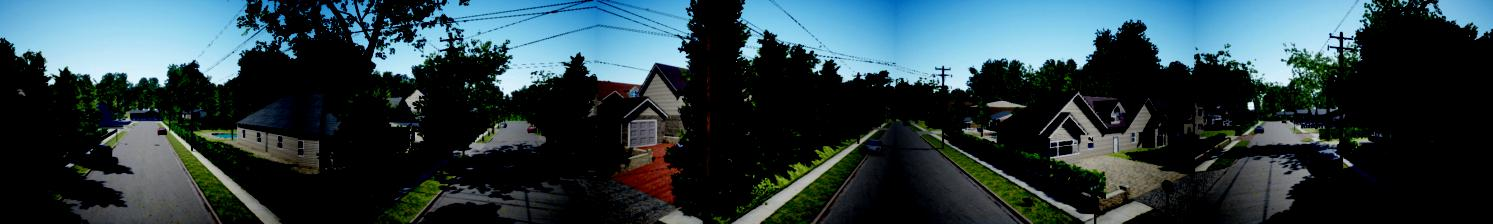
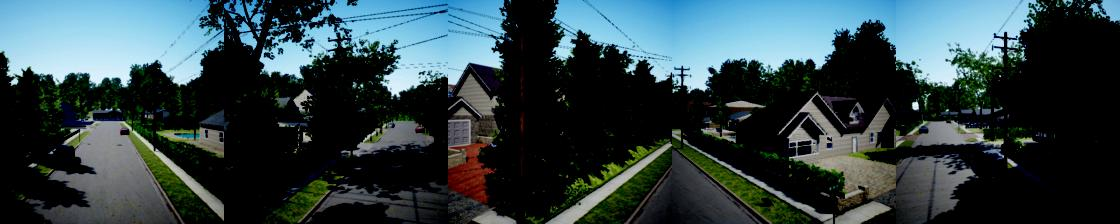
updated

diff --git a/pysrc/regression/data_transform_model.py b/pysrc/regression/data_transform_model.py
@@ -9,35 +9,35 @@ from torchvision import transforms
 
 class DataTransform():
     def __init__(self, resize, mean, std):
-        self.DataTransform = transforms.Compose([
+        self.img_transform = transforms.Compose([
             transforms.Resize(resize),
-            # transforms.CenterCrop(resize),
+            transforms.CenterCrop(resize),
             transforms.ToTensor(),
             transforms.Normalize(mean, std)
         ])
 
     def __call__(self, img_path_list, acc_numpy):
-        combined_img_pil = self.combineImages(img_path_list)
-        img_tensor = self.DataTransform(combined_img_pil)
+        combined_img_tensor = self.combineImages(img_path_list)
         acc_numpy = acc_numpy.astype(np.float32)
         acc_numpy = acc_numpy / np.linalg.norm(acc_numpy)
         acc_tensor = torch.from_numpy(acc_numpy)
 
-        return img_tensor, acc_tensor
+        return combined_img_tensor, acc_tensor
 
     def combineImages(self, img_path_list):
         for i in range(len(img_path_list)):
+            img_tensor = self.img_transform(Image.open(img_path_list[i]))
             if i == 0:
-                combined_img_pil = Image.open(img_path_list[i])
+                combined_img_tensor = img_tensor
             else:
-                combined_img_pil = self.getConcatH(combined_img_pil, Image.open(img_path_list[i]))
-        return combined_img_pil
+                combined_img_tensor = torch.cat((combined_img_tensor, img_tensor), dim=2)
+        return combined_img_tensor
 
-    def getConcatH(self, img_l, img_r):
-        dst = Image.new('RGB', (img_l.width + img_r.width, img_l.height))
-        dst.paste(img_l, (0, 0))
-        dst.paste(img_r, (img_l.width, 0))
-        return dst
+    # def getConcatH(self, img_l, img_r):
+    #     dst = Image.new('RGB', (img_l.width + img_r.width, img_l.height))
+    #     dst.paste(img_l, (0, 0))
+    #     dst.paste(img_r, (img_l.width, 0))
+    #     return dst
 
 ##### test #####
 # ## trans param

diff --git a/pysrc/regression/network.py b/pysrc/regression/network.py
@@ -14,7 +14,7 @@ class OriginalNet(nn.Module):
         vgg = models.vgg16(pretrained=use_pretrained)
         self.features = vgg.features
         self.fc = nn.Sequential(
-            nn.Linear(164864, 100),
+            nn.Linear(125440, 100),
             nn.ReLU(inplace=True),
             nn.Dropout(p=0.1),
             nn.Linear(100, 18),
